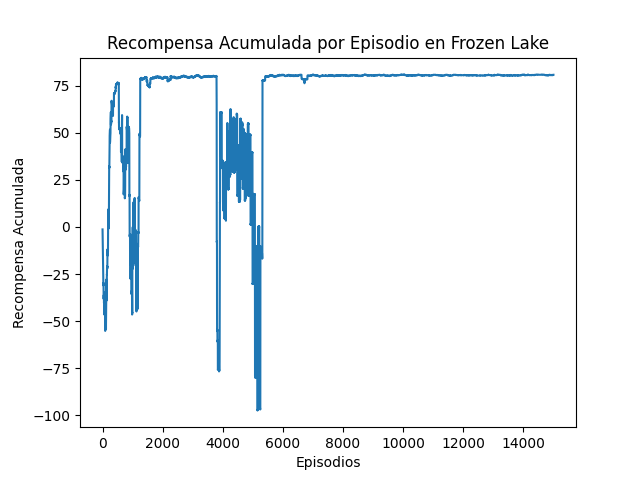
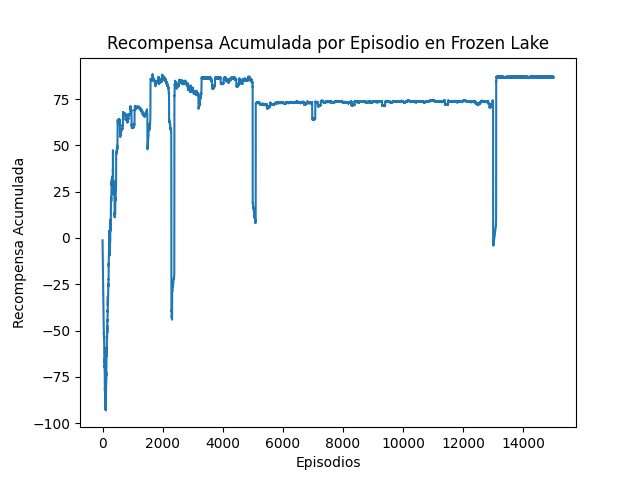
UpdateUCB

diff --git a/Laboratorios/Laboratorio7/Métodos/ucb.py b/Laboratorios/Laboratorio7/Métodos/ucb.py
@@ -18,51 +18,36 @@ def run(episodes, is_training=True, render=False):
     env = gym.make('FrozenLake-enhanced', desc=None, map_name="4x4", is_slippery=False, render_mode='human' if render else None)
     
     if is_training:
-        q = np.zeros((env.observation_space.n, env.action_space.n))  # Inicializar la tabla Q
-        acciones = np.ones((env.observation_space.n, env.action_space.n))  # Contador de acciones tomadas (iniciadas en 1)
+        q = np.zeros((env.observation_space.n, env.action_space.n))  # Inicializamos la tabla Q
+        acciones = np.ones((env.observation_space.n, env.action_space.n))  # Contador de acciones tomadas inicializado en 1 para evitar división por cero
     else:
-        with open('Laboratorios/Laboratorio7/Métodos/QTable/UCB/frozen_lake4x4.pkl', 'rb') as f:
+        with open('Laboratorios/Laboratorio7/Métodos/QTable/UCB_Incremental/frozen_lake8x8.pkl', 'rb') as f:
             q = pickle.load(f)
-            acciones = np.ones((env.observation_space.n, env.action_space.n))  # Se puede cargar también si se ha guardado anteriormente
+            acciones = np.ones((env.observation_space.n, env.action_space.n))
         
-    use_ucb = True  # Controla si se usa UCB
-    epsilon = 0.1  # Probabilidad de tomar acciones aleatorias en \(\epsilon\)-greedy
-    epsilon_min = 0 # Épsilon mínimo
-    epsilon_decay = 0.001  # Tasa de disminución de epsilon 
-    alpha = 0.5  # Tasa de aprendizaje
-    c = 0.8  # Constante para UCB
-    rng = np.random.default_rng()  # Generador de números aleatorios
+    c = 1.0  # Constante para UCB
+    alpha = 0.1  # Tasa de aprendizaje
 
     rewards_per_episode = np.zeros(episodes)
     
     previous_states = []
-    max_previous_states = 5
+    max_previous_states = 1
     penalty = -0.2  # Penalización por movimiento repetitivo
+    
     for i in range(episodes):
         state = env.reset()[0]  # Estado inicial
         terminated = False  # True cuando cae en un agujero o alcanza el objetivo
         truncated = False  # True cuando las acciones > 200
-        previous_states_actions = []  # Inicializar lista de estados y acciones previas para el episodio
 
         while not terminated and not truncated:
             if is_training:
-                if use_ucb:
-                    # Selección de acción usando UCB
-                    max_ucb = -np.inf
-                    total_actions = np.sum(acciones[state, :])
-                    for j in range(env.action_space.n):
-                        ucb_value = q[state, j] + c * math.sqrt(math.log(total_actions + 1) / (acciones[state, j]))
-                        if ucb_value > max_ucb:
-                            max_ucb = ucb_value
-                            action = j
-                # En el caso de que no se use UCB
-                else:
-                    if rng.random() < epsilon:
-                        action = env.action_space.sample()  # Acción aleatoria
-                    else:
-                        action = np.argmax(q[state, :])  # Seleccionar la acción con mayor valor estimado Q
+                # Selección de acción usando UCB
+                total_actions = np.sum(acciones[state, :])
+                ucb_values = q[state, :] + c * np.sqrt(np.log(total_actions + 1) / acciones[state, :])
+                action = np.argmax(ucb_values)
             else:
-                action = np.argmax(q[state, :])  # Seleccionar la acción con mayor valor estimado Q
+                # Seleccionar la acción con mayor valor estimado Q
+                action = np.argmax(q[state, :])
 
             new_state, reward, terminated, truncated, _ = env.step(action)
             
@@ -70,7 +55,7 @@ def run(episodes, is_training=True, render=False):
                 # Penalizar los movimientos hacia paredes (sin cambio de estado)
                 if new_state == state:
                     reward -= 0.1
-                    
+
                 # Penalizar movimientos repetitivos entre dos estados
                 if len(previous_states) >= max_previous_states:
                     previous_states.pop(0)
@@ -78,11 +63,10 @@ def run(episodes, is_training=True, render=False):
 
                 if previous_states.count((state, action)) > 1:
                     reward += penalty
-                    
-                # Actualización Incremental
+
+                # Actualización de Q-learning Incremental
+                q[state, action] += alpha * (reward - q[state, action])
                 acciones[state, action] += 1
-                recompensa = q[state, action]
-                q[state, action] += alpha * (reward - recompensa)
 
             # Pasar la tabla Q y el recuento de episodios al entorno para renderizar
             if env.render_mode == 'human':
@@ -91,11 +75,7 @@ def run(episodes, is_training=True, render=False):
 
             state = new_state
             rewards_per_episode[i] += reward
-            
-        #Disminución gradual de épsilon
-        if is_training and not use_ucb:
-            epsilon = max(epsilon - epsilon_decay, epsilon_min)
-            
+    
     env.close()
     
     sum_rewards = np.zeros(episodes)
@@ -105,11 +85,13 @@ def run(episodes, is_training=True, render=False):
     plt.xlabel('Episodios')
     plt.ylabel('Recompensa Acumulada')
     plt.title('Recompensa Acumulada por Episodio en Frozen Lake')
-    plt.savefig('Laboratorios/Laboratorio7/Métodos/Gráficos/UCB/frozen_lake4x4_test.png')
+    plt.savefig('Laboratorios/Laboratorio7/Métodos/Gráficos/UCB_Incremental/frozen_lake8x8.png')
+    plt.show()
 
     if is_training:
-        with open("Laboratorios/Laboratorio7/Métodos/QTable/UCB/frozen_lake4x4.pkl", "wb") as f:
+        with open("Laboratorios/Laboratorio7/Métodos/QTable/UCB_Incremental/frozen_lake8x8.pkl", "wb") as f:
             pickle.dump(q, f)
 
 if __name__ == '__main__':
-    run(1000, is_training=False, render=True)
+    run(15000, is_training=True, render=True)
+    #run(1000, is_training=False, render=True)

diff --git a/Laboratorios/Laboratorio7/Métodos/acción_valor.py b/Laboratorios/Laboratorio7/Métodos/acción_valor.py
@@ -91,11 +91,12 @@ def run(episodes, is_training=True, render=False):
     plt.xlabel('Episodios')
     plt.ylabel('Recompensa Acumulada')
     plt.title('Recompensa Acumulada por Episodio en Frozen Lake')
-    plt.savefig('Laboratorios/Laboratorio7/Métodos/Gráficos/Acción_Valor/frozen_lake4x4test.png')
+    plt.savefig('Laboratorios/Laboratorio7/Métodos/Gráficos/Acción_Valor/frozen_lake4x4_test.png')
 
     if is_training:
         with open("Laboratorios/Laboratorio7/Métodos/QTable/Acción_Valor/frozen_lake4x4.pkl", "wb") as f:
             pickle.dump(q, f)
             
 if __name__ == '__main__':
-    run(150000, is_training=False, render=False)
+    #run(15000, is_training=True, render=True)
+    run(1000, is_training=False, render=True)

diff --git a/Laboratorios/Laboratorio7/Métodos/QTable/lectura_pickle.py b/Laboratorios/Laboratorio7/Métodos/QTable/lectura_pickle.py
@@ -3,8 +3,9 @@ import pickle
 # Ruta al archivo .pkl del método que queramos observar
 
 # Cambiar /UCB por el método del que se quiera ver la tabla Q
-#file_path = 'Laboratorios/Laboratorio7/Métodos/QTable/UCB/frozen_lake4x4.pkl'
-file_path = 'Laboratorios/Laboratorio7/Métodos/QTable/Gradiente/frozen_lake4x4_H.pkl'
+file_path = 'Laboratorios/Laboratorio7/Métodos/QTable/UCB/frozen_lake4x4.pkl'
+#file_path = 'Laboratorios/Laboratorio7/Métodos/QTable/Gradiente/frozen_lake4x4.pkl'
+file_path = 'Laboratorios/Laboratorio7/Métodos/QTable/Incremental/frozen_lake8x8.pkl'
 
 with open(file_path, 'rb') as file:
     data = pickle.load(file)

diff --git a/Laboratorios/Laboratorio7/Métodos/alg_gradiente.py b/Laboratorios/Laboratorio7/Métodos/alg_gradiente.py
@@ -103,5 +103,5 @@ def run(episodes, is_training=True, render=False):
                 env.render()
 
 if __name__ == '__main__':
-    run(1000, is_training=True, render=False)  # Aumentar el número de episodios de entrenamiento
+    #run(1000, is_training=True, render=False)  # Aumentar el número de episodios de entrenamiento
     run(3, is_training=False, render=True)

diff --git a/Laboratorios/Laboratorio7/Métodos/incremental.py b/Laboratorios/Laboratorio7/Métodos/incremental.py
@@ -91,4 +91,5 @@ def run(episodes, is_training=True, render=False):
             pickle.dump(q, f)
 
 if __name__ == '__main__':
-    run(1000, is_training=False, render=True)
+    run(1000, is_training=True, render=True)
+    #run(1000, is_training=False, render=True)
